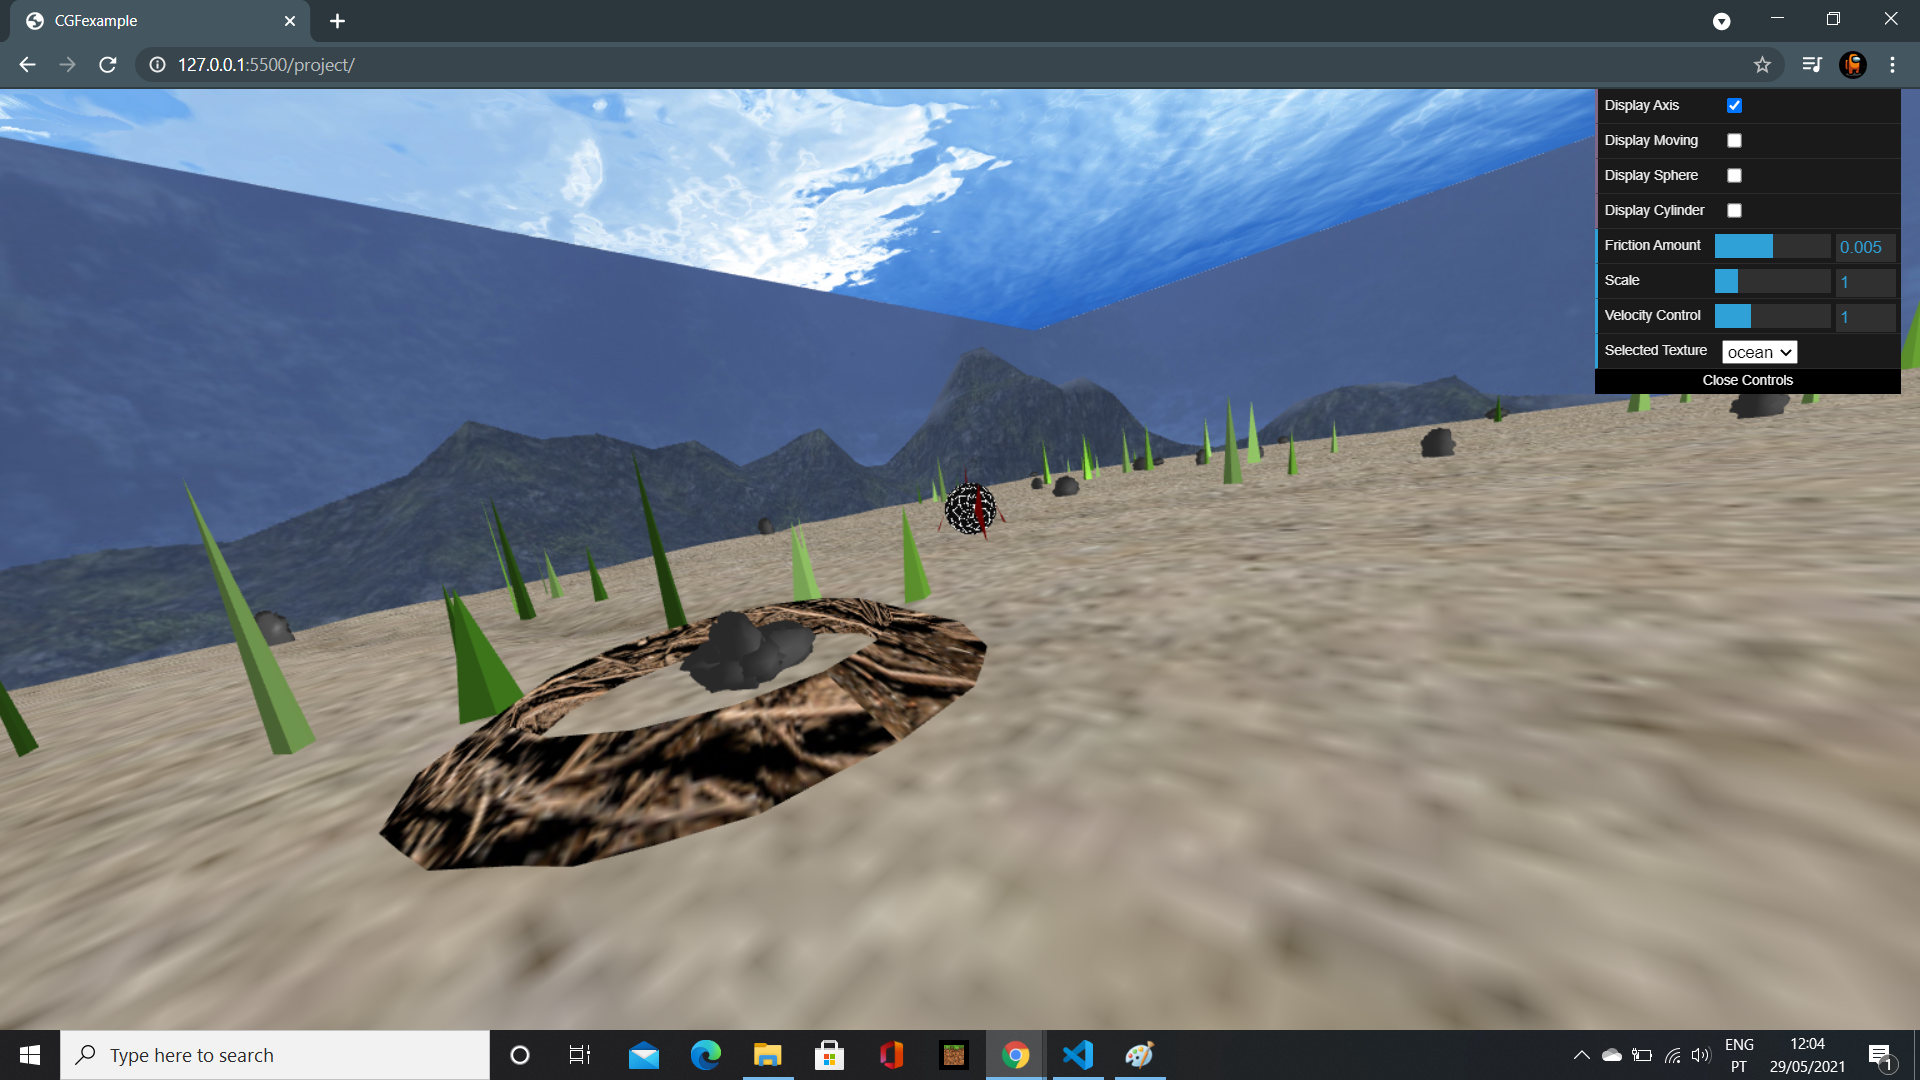
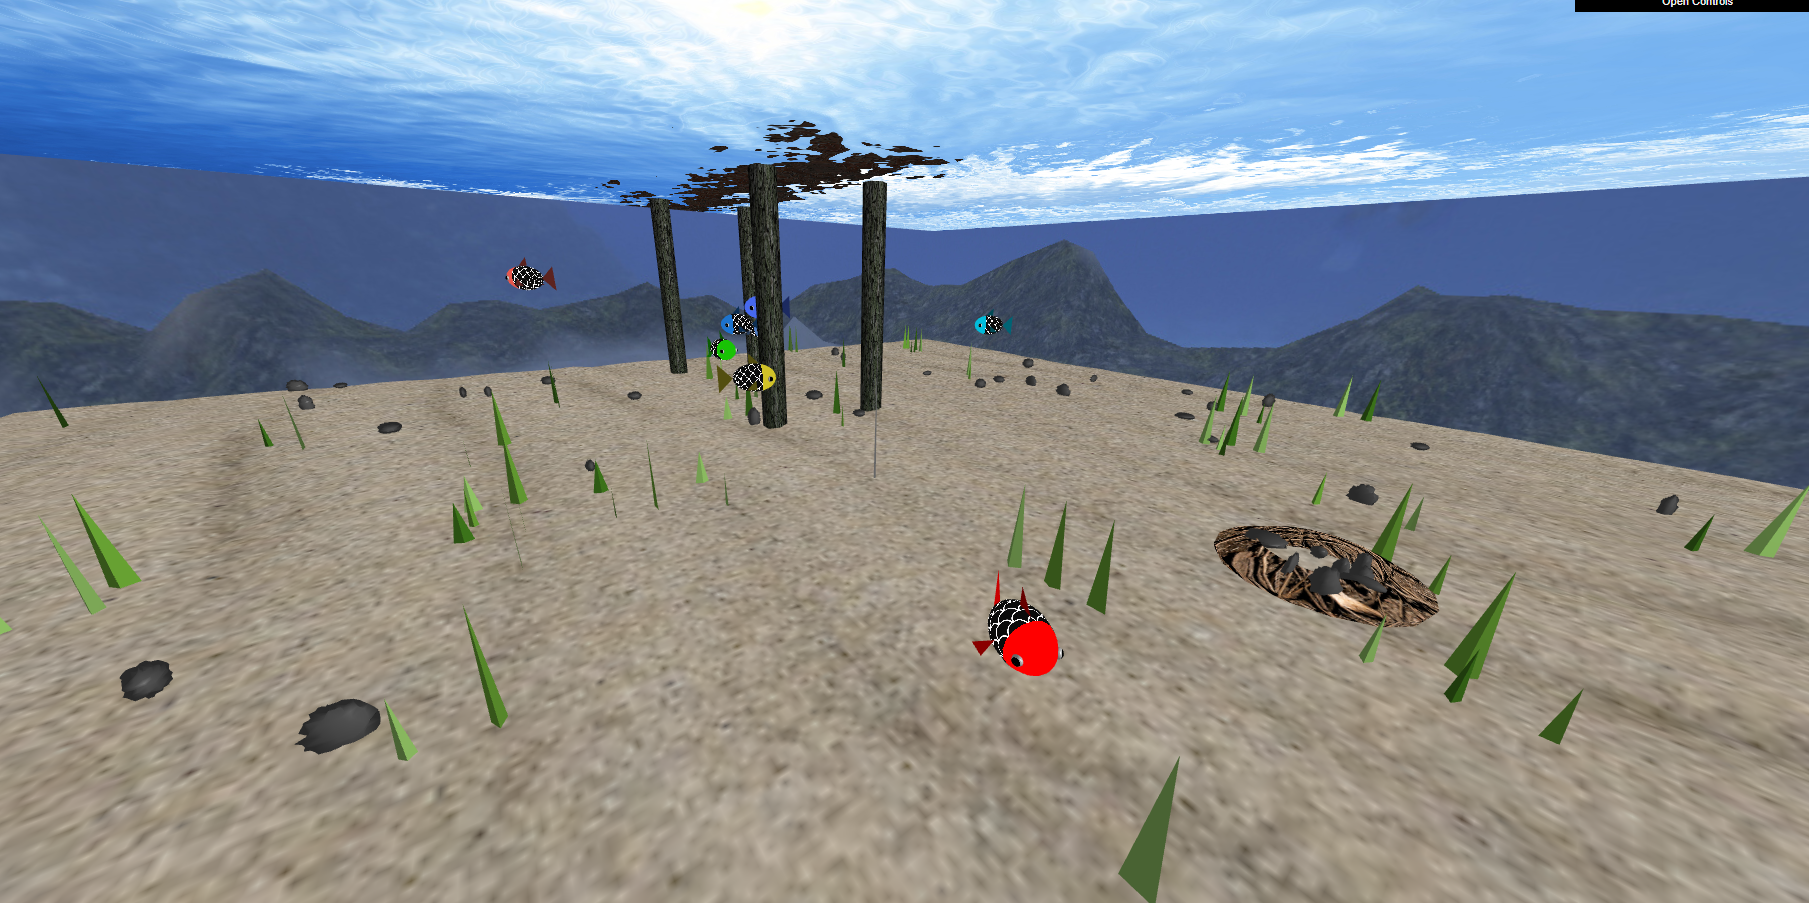
chore: update screenshot

diff --git a/project/MyScene.js b/project/MyScene.js
@@ -94,10 +94,12 @@ export class MyScene extends CGFscene {
         this.movingFish = new MyMovingFish(this, false);
         this.animFish = [
             new MyAnimatedFish(this, [0,2,0], 2, true),
-            // new MyAnimatedFish(this, [10,2,10], 5, true),
-            // new MyAnimatedFish(this, [2,5,-10], 10, true),
-            // new MyAnimatedFish(this, [-5,4,0], 30, true),
-            new MyAnimatedFish(this, [3,2,5], 5, true)
+            new MyAnimatedFish(this, [10,2,10], 5, true),
+            new MyAnimatedFish(this, [2,5,-10], 10, true),
+            new MyAnimatedFish(this, [-5,4,0], 30, true),
+            new MyAnimatedFish(this, [3,2,5], 5, true),
+            new MyAnimatedFish(this, [-7,3,10], 10, true),
+            new MyAnimatedFish(this, [-2,3,0], 30, true)
         ]
 
         this.defaultAppearance = new CGFappearance(this);

diff --git a/project/README.md b/project/README.md
@@ -42,6 +42,6 @@ Além disso, implementou-se uma classe própria para o ninho.
 ![Screenshot7b](screenshots/proj-t05g03-7b.png)
 ![Screenshot7c](screenshots/proj-t05g03-7c.png)
 
-### 8 - Extras implemented (randomness in the Seaweed and rocks in the nest)
+### 8 - Extras implemented (randomness in the Seaweed, rock placement in the nest, and additional fish)
 
 ![Screenshot8](screenshots/proj-t05g03-8.png)
